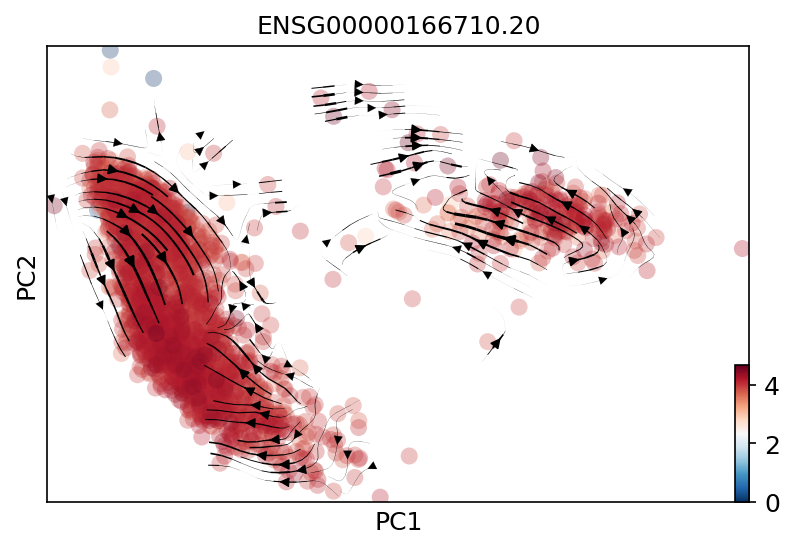
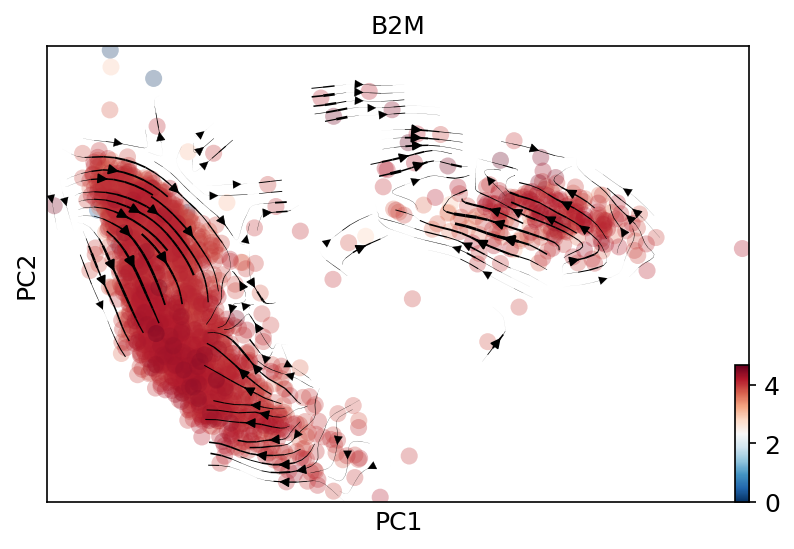
Update figure titles.

Changed region(s): [[0.3023, 0.031, 0.6952, 0.0619]]

diff --git a/README.md b/README.md
@@ -53,7 +53,7 @@ Next I examined plots of each sample separately using the embedded RNA-velocity 
 ## Conclusions:
 It is clear so far from the analysis that there is contamination of the CD4 T-cells with non-T cells in donor 1 (but not donor 2). My hypothesis is that these are likely the feeder cells (H80) which are used to keep the immune cells activated and alive. 
 
-Second, it is clear that there is a population of cells that lack beta-2-microglobulin (B2M) expression but express CD3. This subpopulation can be clearly seen in figures scvelo\_d1u\_B2M\_umap.png, scvelo\_d2u\_B2M\_umap.png, scvelo\_B2M\_CD3d\_umap.png (shown above). If this turns out to be real it could suggest that a subset of Tcells can downregulate B2M - suggesting a possible mechanism by which T-cells can survive for long periods of time by avoiding CTLs (which require expression of B2M as part of MHC-1 in order to mediate killing). I am looking into what other genes correlate with B2M expression in this dataset in hopes of a hint for what might be causing loss of B2M.
+Second, it is clear that there is a population of cells that lack beta-2-microglobulin (B2M) expression but express CD3. This subpopulation can be seen (cloud of dark blue alongside bright red) in figures scvelo\_d1u\_B2M\_umap.png, scvelo\_d2u\_B2M\_umap.png, scvelo\_B2M\_CD3d\_umap.png (shown above). If this turns out to be real it could suggest that a subset of Tcells can downregulate B2M - suggesting a possible mechanism by which T-cells can survive for long periods of time by avoiding CTLs (which require expression of B2M as part of MHC-1 in order to mediate killing). I am looking into what other genes correlate with B2M expression in this dataset in hopes of a hint for what might be causing loss of B2M.
 
 ## How to run
 ```
